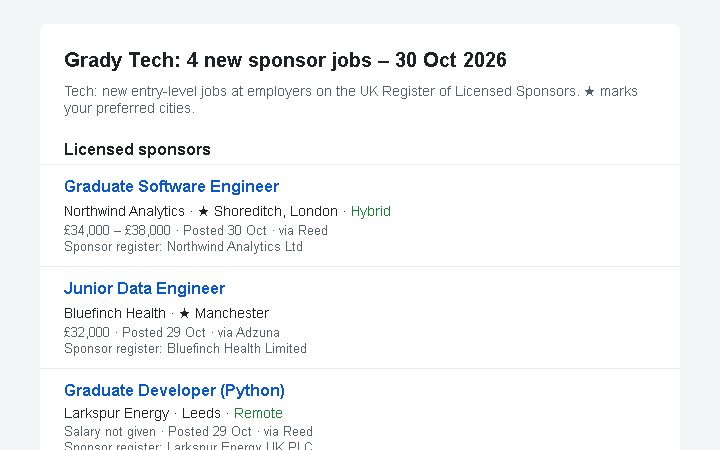
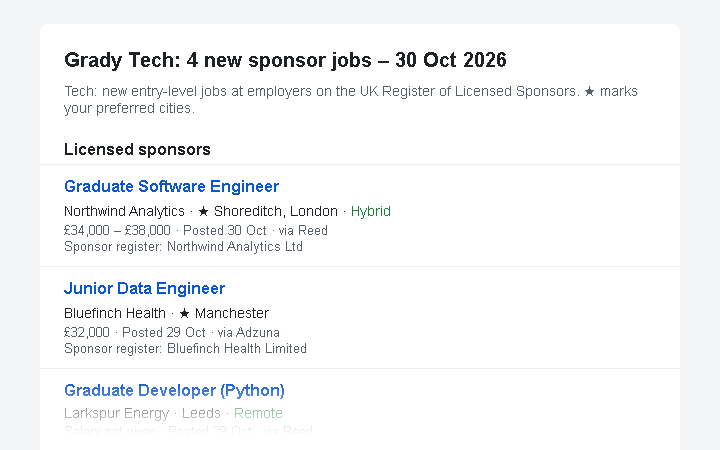
uopdate pictures

Changed region(s): [[0.0917, 0.84, 0.4278, 1.0]]

diff --git a/src/pages/ListProject.jsx b/src/pages/ListProject.jsx
@@ -26,7 +26,8 @@ export default function ListProject() {
         />
       </Reveal>
       <Reveal>
-        {/* No screenshots yet, so the card is text only. */}
+        {/* The email is the top of a real digest, faded at the bottom to
+            fit 16:10; the pipeline diagram is a hand-drawn SVG. */}
         <ProjectItem
           project={"Grady: Visa-Sponsor Graduate Job Finder"}
           technologies={["Python", "SQLite", "rapidfuzz", "GitHub Actions", "pytest"]}
@@ -35,6 +36,8 @@ export default function ListProject() {
           }
           link={"https://github.com/hjeesum/grady"}
           extraLinks={[{ label: "See today's jobs", url: "https://hjeesum.github.io/grady/" }]}
+          images={["grady_email-web.png", "grady_pipeline-web.svg"]}
+          mediaPosition="top"
         />
       </Reveal>
       <Reveal>
